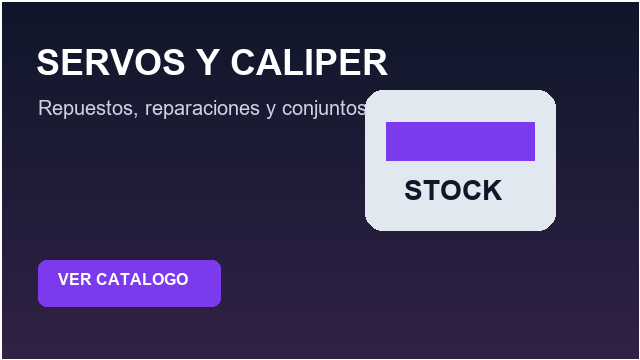
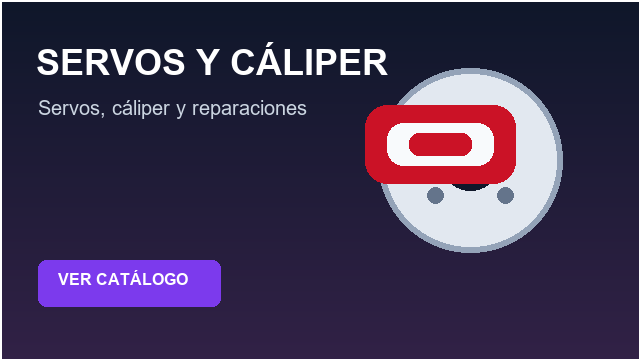
Mejora portada login

Changed region(s): [[0.0625, 0.1833, 0.9062, 0.7028]]

diff --git a/web/styles.css b/web/styles.css
@@ -40,6 +40,10 @@ body:not(.locked) .login-screen {
   display: none;
 }
 
+body.locked {
+  overflow: hidden;
+}
+
 button,
 input,
 textarea {
@@ -101,15 +105,18 @@ button:hover {
 
 .login-screen {
   display: block;
-  min-height: 100vh;
+  height: 100dvh;
+  overflow-y: auto;
   background:
-    linear-gradient(180deg, rgba(255, 255, 255, 0.94), rgba(237, 244, 243, 0.98)),
-    #ffffff;
+    radial-gradient(circle at 20% 12%, rgba(203, 18, 38, 0.12), transparent 28%),
+    radial-gradient(circle at 88% 4%, rgba(30, 64, 175, 0.12), transparent 26%),
+    linear-gradient(180deg, rgba(255, 255, 255, 0.98), rgba(239, 244, 248, 0.98)),
+    #f8fafc;
 }
 
 .catalog-home {
-  min-height: 100vh;
-  padding: 22px;
+  min-height: 100dvh;
+  padding: 18px;
 }
 
 .catalog-home-top {
@@ -118,16 +125,17 @@ button:hover {
   justify-content: space-between;
   gap: 20px;
   width: min(1180px, 100%);
-  margin: 0 auto 18px;
-  padding: 14px 18px;
+  margin: 0 auto 14px;
+  padding: 12px 16px;
   border: 1px solid var(--line);
   border-radius: 12px;
-  background: #ffffff;
-  box-shadow: var(--shadow);
+  background: rgba(255, 255, 255, 0.9);
+  box-shadow: 0 12px 34px rgba(15, 23, 42, 0.08);
+  backdrop-filter: blur(10px);
 }
 
 .home-logo {
-  width: min(280px, 62vw);
+  width: min(250px, 62vw);
   height: auto;
 }
 
@@ -145,17 +153,18 @@ button:hover {
 
 .home-hero {
   display: grid;
-  grid-template-columns: minmax(0, 1fr) 380px;
-  gap: 22px;
+  grid-template-columns: minmax(0, 0.95fr) minmax(360px, 420px);
+  align-items: center;
+  gap: 28px;
   width: min(1180px, 100%);
-  margin: 0 auto 22px;
-  padding: 38px;
+  margin: 0 auto 16px;
+  padding: 34px;
   overflow: hidden;
-  border-radius: 16px;
+  border-radius: 18px;
   background:
-    linear-gradient(135deg, rgba(15, 23, 42, 0.96), rgba(17, 32, 51, 0.96)),
+    linear-gradient(135deg, rgba(10, 20, 38, 0.98), rgba(16, 33, 60, 0.98)),
     #111827;
-  box-shadow: 0 22px 60px rgba(15, 23, 42, 0.24);
+  box-shadow: 0 22px 56px rgba(15, 23, 42, 0.22);
   color: #ffffff;
 }
 
@@ -164,40 +173,30 @@ button:hover {
 }
 
 .hero-copy h1 {
-  max-width: 720px;
-  margin-bottom: 14px;
-  font-size: 46px;
-  line-height: 1.05;
+  max-width: 640px;
+  margin-bottom: 12px;
+  font-size: 42px;
+  line-height: 1.08;
 }
 
 .hero-copy p:not(.eyebrow) {
-  max-width: 680px;
+  max-width: 600px;
   color: #cbd5e1;
-  font-size: 18px;
+  font-size: 17px;
   line-height: 1.5;
-}
-
-.home-search {
-  display: grid;
-  grid-template-columns: minmax(0, 1fr) auto;
-  gap: 10px;
-  max-width: 720px;
-  margin-top: 28px;
-  padding: 10px;
-  border-radius: 10px;
-  background: #ffffff;
 }
 
 .login-card {
   display: grid;
   align-content: center;
   width: 100%;
-  gap: 14px;
-  padding: 28px;
+  gap: 13px;
+  padding: 30px;
   background: #ffffff;
-  border-radius: 12px;
+  border: 1px solid rgba(219, 226, 234, 0.9);
+  border-radius: 14px;
   color: var(--ink);
-  box-shadow: var(--shadow);
+  box-shadow: 0 18px 46px rgba(15, 23, 42, 0.2);
 }
 
 .login-card label {
@@ -209,8 +208,8 @@ button:hover {
 }
 
 .login-card h2 {
-  margin-bottom: 4px;
-  font-size: 28px;
+  margin-bottom: 2px;
+  font-size: 30px;
 }
 
 .login-hint {
@@ -222,24 +221,24 @@ button:hover {
 .home-categories {
   display: grid;
   grid-template-columns: repeat(3, minmax(0, 1fr));
-  gap: 16px;
+  gap: 14px;
   width: min(1180px, 100%);
-  margin: 0 auto 28px;
+  margin: 0 auto 18px;
 }
 
 .home-categories article {
   position: relative;
-  min-height: 190px;
+  min-height: 168px;
   overflow: hidden;
-  border-radius: 12px;
+  border-radius: 10px;
   background: #111827;
-  box-shadow: var(--shadow);
+  box-shadow: 0 12px 30px rgba(15, 23, 42, 0.12);
 }
 
 .home-categories img {
   width: 100%;
   height: 100%;
-  min-height: 190px;
+  min-height: 168px;
   object-fit: cover;
   display: block;
   transition: transform 160ms ease;
@@ -258,6 +257,7 @@ button:hover {
   background: rgba(15, 23, 42, 0.82);
   color: #ffffff;
   font-weight: 800;
+  letter-spacing: 0;
 }
 
 .eyebrow {
@@ -978,30 +978,35 @@ tbody tr.selected {
   }
 
   .catalog-home {
-    padding: 12px;
+    padding: 10px;
   }
 
   .catalog-home-top,
   .home-hero {
     grid-template-columns: 1fr;
-    padding: 18px;
+    padding: 16px;
   }
 
   .catalog-home-top {
     display: grid;
+    gap: 12px;
   }
 
   .hero-copy h1 {
-    font-size: 32px;
+    font-size: 30px;
   }
 
-  .home-search,
   .home-categories {
     grid-template-columns: 1fr;
   }
 
+  .home-categories article,
+  .home-categories img {
+    min-height: 142px;
+  }
+
   .login-card {
-    padding: 26px;
+    padding: 24px;
   }
 }
 

diff --git a/web/index.html b/web/index.html
@@ -13,25 +13,21 @@
           <img class="home-logo" src="/assets/logo-frenos-coronel-diaz.png" alt="Frenos Coronel Diaz S.A." />
           <nav>
             <a href="#homeCategories">Catálogo</a>
-            <a href="#loginForm">Area exclusiva</a>
+            <a href="#loginForm">Área exclusiva</a>
           </nav>
         </header>
 
         <section class="home-hero">
           <div class="hero-copy">
             <p class="eyebrow">Repuestos para frenos y embragues</p>
-            <h1>Catálogo inteligente Frenos Coronel Diaz SA</h1>
+            <h1>ERP automotriz Frenos Coronel Diaz SA</h1>
             <p>
-              Búsqueda rápida por código, marca, proveedor, categoría o aplicación. Stock, ventas y gestión empresarial en un solo sistema.
+              Gestión profesional de stock, ventas y operación interna para una repuestera especializada en frenos y embragues.
             </p>
-            <div class="home-search">
-              <input type="search" placeholder="Buscar: pastillas corsa, flexible, bomba freno, PD145..." />
-              <button type="button">Buscar</button>
-            </div>
           </div>
           <form id="loginForm" class="login-card">
-            <p class="eyebrow">Area exclusiva</p>
-            <h2>Iniciar sesion</h2>
+            <p class="eyebrow">Área exclusiva</p>
+            <h2>Iniciar sesión</h2>
             <label>
               Usuario
               <input id="userInput" type="text" autocomplete="username" value="admin" />
@@ -51,8 +47,8 @@
             <span>Hidráulica</span>
           </article>
           <article>
-            <img src="/assets/inicio/friccion.png" alt="Friccion" />
-            <span>Friccion</span>
+            <img src="/assets/inicio/friccion.png" alt="Fricción" />
+            <span>Fricción</span>
           </article>
           <article>
             <img src="/assets/inicio/flexibles.png" alt="Caños flexibles" />
@@ -63,8 +59,8 @@
             <span>Servos y cáliper</span>
           </article>
           <article>
-            <img src="/assets/inicio/chaja.png" alt="Chajá y conexiones" />
-            <span>Chajá y conexiones</span>
+            <img src="/assets/inicio/chaja.png" alt="Chajá conexiones" />
+            <span>Chajá conexiones</span>
           </article>
           <article>
             <img src="/assets/inicio/embragues.png" alt="Embragues" />

diff --git a/scripts/generar_assets_inicio.py b/scripts/generar_assets_inicio.py
@@ -40,6 +40,20 @@ def draw_hose(draw: ImageDraw.ImageDraw, x: int, y: int) -> None:
     draw.rectangle((x + 220, y + 57, x + 262, y + 83), fill=(226, 232, 240))
 
 
+def draw_master_cylinder(draw: ImageDraw.ImageDraw, x: int, y: int) -> None:
+    draw.rounded_rectangle((x + 20, y + 42, x + 180, y + 92), radius=14, fill=(226, 232, 240))
+    draw.rounded_rectangle((x + 52, y + 10, x + 136, y + 48), radius=12, fill=(248, 250, 252))
+    draw.rectangle((x + 4, y + 54, x + 28, y + 80), fill=(148, 163, 184))
+    draw.rectangle((x + 178, y + 56, x + 230, y + 78), fill=(148, 163, 184))
+    draw.ellipse((x + 58, y + 52, x + 100, y + 94), fill=(15, 23, 42))
+    draw.ellipse((x + 105, y + 52, x + 147, y + 94), fill=(15, 23, 42))
+
+
+def draw_clutch(draw: ImageDraw.ImageDraw, x: int, y: int) -> None:
+    draw_master_cylinder(draw, x, y)
+    draw_hose(draw, x - 10, y + 62)
+
+
 def make_card(filename: str, title: str, subtitle: str, accent: tuple[int, int, int], kind: str) -> None:
     img = Image.new("RGB", (640, 360), (15, 23, 42))
     draw = ImageDraw.Draw(img)
@@ -58,6 +72,10 @@ def make_card(filename: str, title: str, subtitle: str, accent: tuple[int, int, 
         draw_caliper(draw, 365, 105)
     elif kind == "hose":
         draw_hose(draw, 330, 110)
+    elif kind == "hydraulic":
+        draw_master_cylinder(draw, 360, 105)
+    elif kind == "clutch":
+        draw_clutch(draw, 345, 95)
     elif kind == "box":
         draw.rounded_rectangle((365, 90, 555, 230), radius=18, fill=(226, 232, 240))
         draw.rectangle((386, 122, 534, 160), fill=accent)
@@ -68,17 +86,17 @@ def make_card(filename: str, title: str, subtitle: str, accent: tuple[int, int, 
     draw.text((36, 42), title.upper(), fill=(255, 255, 255), font=font(36, True))
     draw.text((38, 96), subtitle, fill=(203, 213, 225), font=font(20))
     draw.rounded_rectangle((38, 260, 220, 306), radius=8, fill=accent)
-    draw.text((58, 270), "VER CATALOGO", fill=(255, 255, 255), font=font(16, True))
+    draw.text((58, 270), "VER CATÁLOGO", fill=(255, 255, 255), font=font(16, True))
     img.save(ASSETS / filename, "PNG", optimize=True)
 
 
 def main() -> None:
-    make_card("hidraulica.png", "Hidraulica", "Bombas, bombines y cilindros", (15, 118, 110), "disc")
-    make_card("friccion.png", "Friccion", "Pastillas, discos y campanas", (203, 18, 38), "disc")
-    make_card("flexibles.png", "Canos flexibles", "Aplicaciones por modelo y medida", (30, 64, 175), "hose")
-    make_card("servos.png", "Servos y caliper", "Repuestos, reparaciones y conjuntos", (124, 58, 237), "box")
-    make_card("chaja.png", "Chaja conexiones", "Conectores, resortes y accesorios", (234, 88, 12), "box")
-    make_card("embragues.png", "Embragues", "Bombas, bombines y crapodinas", (8, 145, 178), "hose")
+    make_card("hidraulica.png", "Hidráulica", "Bombas, bombines y cilindros", (15, 118, 110), "hydraulic")
+    make_card("friccion.png", "Fricción", "Pastillas, discos y campanas", (203, 18, 38), "disc")
+    make_card("flexibles.png", "Caños flexibles", "Flexibles de freno por medida", (30, 64, 175), "hose")
+    make_card("servos.png", "Servos y cáliper", "Servos, cáliper y reparaciones", (124, 58, 237), "disc")
+    make_card("chaja.png", "Chajá conexiones", "Conectores, resortes y accesorios", (234, 88, 12), "box")
+    make_card("embragues.png", "Embragues", "Bombas y bombines de embrague", (8, 145, 178), "clutch")
 
 
 if __name__ == "__main__":
